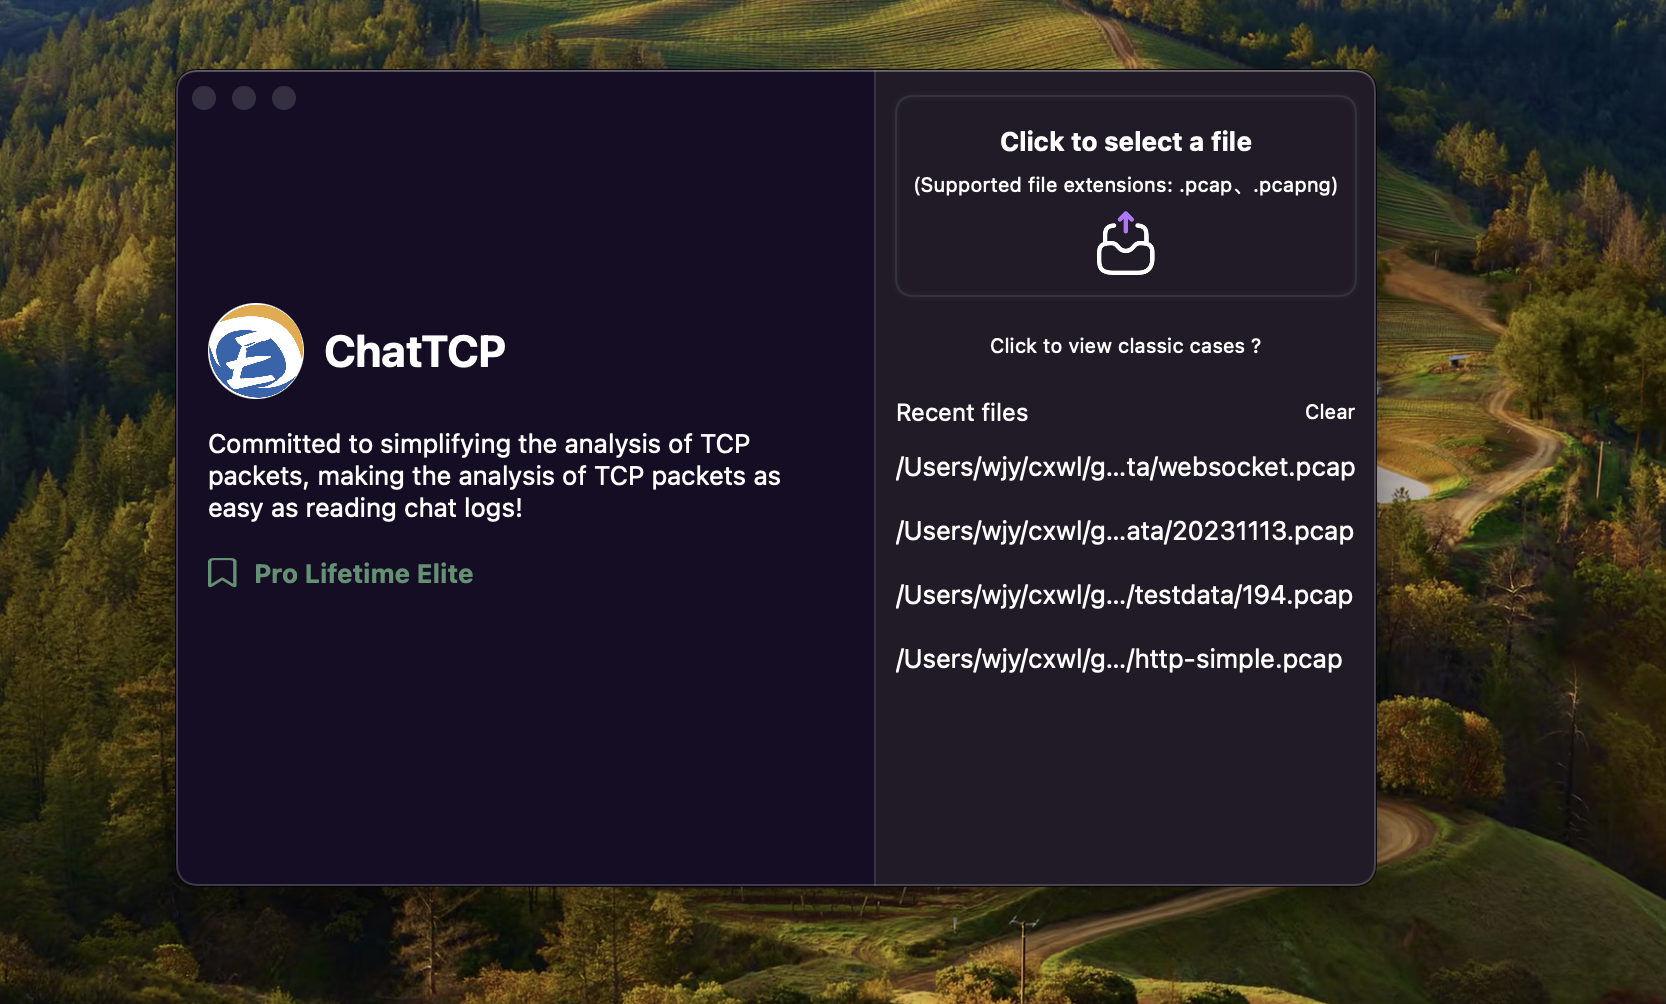
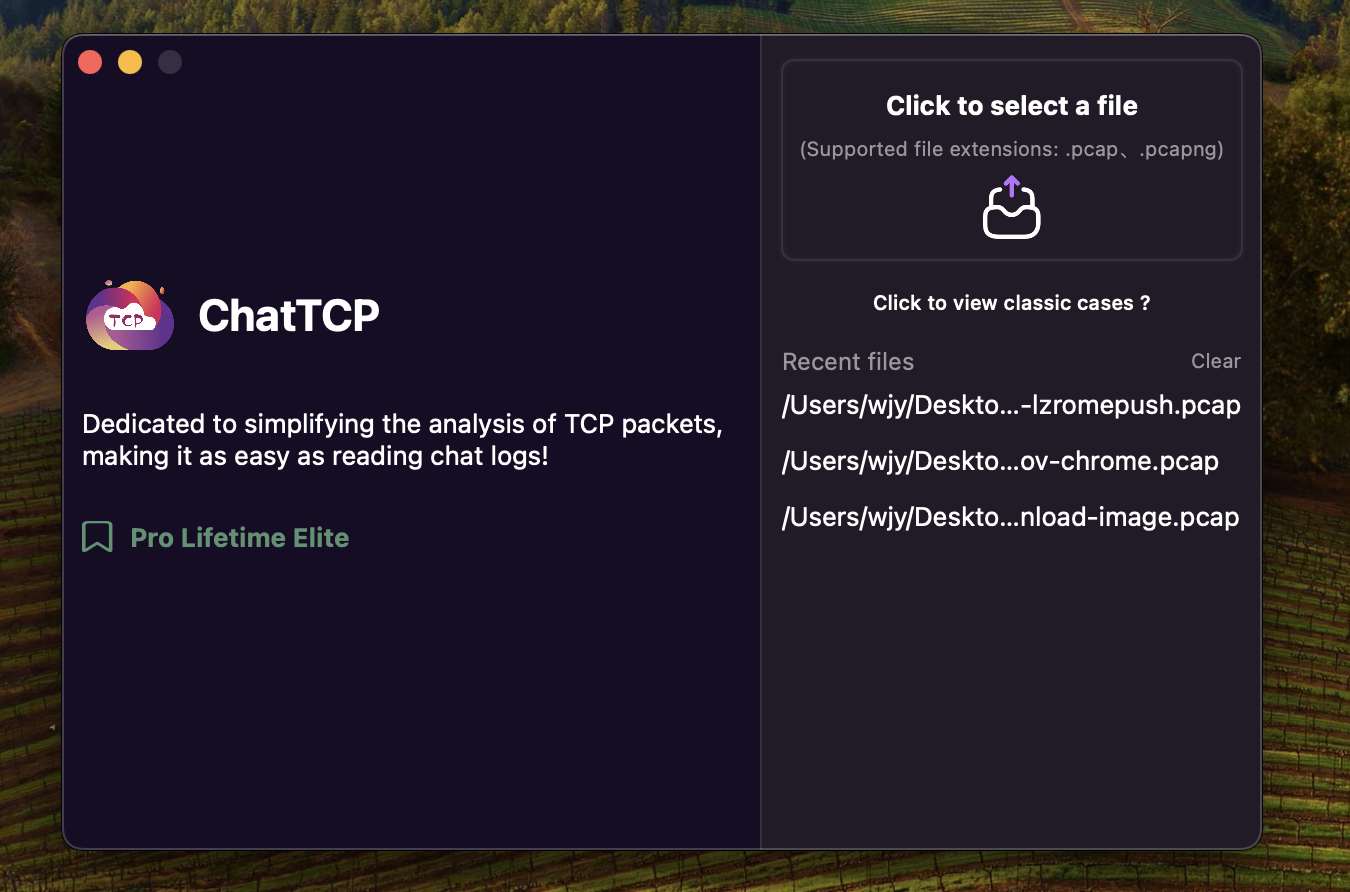
feat: 换新logo & 更新图片

diff --git a/.vitepress/src/sidebars/en.ts b/.vitepress/src/sidebars/en.ts
@@ -16,11 +16,15 @@ export const sidebar = [
         link: '/generate-tcpdump-command-using-chattcp'
     },
     {
+        text: "ChatTCP Personalization Configuration",
+        link: '/about-settings.md'
+    },
+    {
         text: 'Classic case of TCP packet capture analysis',
         link: '/classic-case'
     },
     {
-        text: 'Advanced Search Functionality of ChatTCP',
+        text: 'Advanced Search',
         link: '/search-package'
     },
     {

diff --git a/.vitepress/src/sidebars/zh.ts b/.vitepress/src/sidebars/zh.ts
@@ -16,6 +16,10 @@ export const zhSidebar = [
         link: '/zh/generate-tcpdump-command-using-chattcp'
     },
     {
+        text: "ChatTCP个性化配置",
+        link: '/zh/about-settings.md'
+    },
+    {
         text: 'TCP抓包分析经典案例',
         link: '/zh/classic-case'
     },

diff --git a/src/about-settings.md b/src/about-settings.md
@@ -1,0 +1,71 @@
+# ChatTCP Personalization Configuration
+
+ChatTCP extracts some personalized needs into independent configuration items, which you can modify according to your
+personal requirements.
+
+![ChatTCP setting](/images/about-settings/setting-page.png)
+
+## Use relative sequence number
+
+The sequence number defaults to showing the real value, but since the real value does not start from 0, it does not
+conform to human reading habits. Therefore, ChatTCP provides this configuration item, allowing you to configure the use
+of relative sequence numbers.
+
+Not using relative sequence numbers:
+![use real seq number](/images/about-settings/use-real-seq-number.png)
+
+Using relative sequence numbers:
+![use relative seq number](/images/about-settings/use-relative-seq-number.png)
+
+## Show connection status
+
+You can configure whether to display the [TCP Connection Status](/understand-the-connection-status-of-the-tcp-protocol).
+
+Displaying TCP connection status:
+![show tcp conn status](/images/about-settings/show-conn-status.png)
+
+Not displaying TCP connection status:
+![hidden tcp conn status](/images/about-settings/hidden-conn-status.png)
+
+## Chat note display enable
+
+Displaying Notes can help you understand data packets. This feature is particularly useful when you are not very
+familiar with the TCP protocol. However, once you become proficient with the TCP protocol, this feature may seem
+redundant.
+
+Show notes:
+![chat note show enable](/images/about-settings/chat-note-show-enable.png)
+
+Do not show notes:
+![chat note show disable](/images/about-settings/chat-note-show-disable.png)
+
+## Threshold for auto fold payload
+
+When the Payload is too long, it can cause UI rendering lag. Therefore, if the Payload is too long, it will be folded
+and only displayed when clicked. The default threshold is 1024 bytes, and when the Payload exceeds this threshold, it
+will be folded.
+
+When folded:
+![auto fold too long payload](/images/about-settings/auto-fold-too-long-payload.png)
+
+You can modify this threshold.
+
+## Chat payload display style
+
+ChatTCP automatically recognizes the correct application layer protocol to decode the TCP packet's Payload. If decoding
+is successful, it will determine how to display the decoded data based on this configuration item.
+
+### Structure Priority (Default)
+
+If supported, the decoded data will be mapped to the corresponding application layer protocol's data structure view for
+display.
+
+For example:
+![chat payload display style simple](/images/about-settings/chat-payload-display-style-structure.png)
+
+### Simple Priority
+
+If supported, only the application layer protocol's Payload will be displayed.
+
+For example, the WebSocket protocol only displays the frame's Payload:
+![chat payload display style simple](/images/about-settings/chat-payload-display-style-simple.png)

diff --git a/src/zh/about-settings.md b/src/zh/about-settings.md
@@ -1,0 +1,64 @@
+# ChatTCP个性化配置
+
+ChatTCP将一些个性化需求提取为独立的配置项，您可根据个人需求来修改这些配置项。
+
+![ChatTCP setting](/images/about-settings/setting-page.png)
+
+## 使用相对序列号
+
+序列号默认显示真实值，但由于真实值不是从0开始的，不符合人类的阅读习惯，因此ChatTCP提供该配置项，您可配置使用相对序列号。
+
+不使用相对序列号：
+![use real seq number](/images/about-settings/use-real-seq-number.png)
+
+使用相对序列号：
+![use relative seq number](/images/about-settings/use-relative-seq-number.png)
+
+## 显示TCP连接状态
+
+您可配置是否显示[TCP连接状态](/zh/understand-the-connection-status-of-the-tcp-protocol)。
+
+显示TCP连接状态：
+![show tcp conn status](/images/about-settings/show-conn-status.png)
+
+不显示TCP连接状态：
+![hidden tcp conn status](/images/about-settings/hidden-conn-status.png)
+
+## 是否显示备注
+
+显示备注可以帮助您理解数据包。 当您不太了解 TCP 协议时，这项功能尤其有用。 不过，一旦您熟练掌握了 TCP 协议，这项功能可能就显得多余了。
+
+显示备注：
+![chat note show enable](/images/about-settings/chat-note-show-enable.png)
+
+不显示备注：
+![chat note show disable](/images/about-settings/chat-note-show-disable.png)
+
+## 自动折叠Payload的长度阈值
+
+当Payload过长时会导致UI渲染卡顿，因此Payload过长会被折叠，点击后才展开显示Payload。默认阈值为1024字节，当Payload超过阈值，Payload就会被折叠。
+
+被折叠时：
+![auto fold too long payload](/images/about-settings/auto-fold-too-long-payload.png)
+
+您可修改该阈值。
+
+## Payload的显示样式
+
+ChatTCP会自动识别使用正确的应用层协议来解码TCP数据包的Payload，如果解码成功，就会根据此配置项来决定如何显示解码后的数据。
+
+### Structure priority （默认）
+
+如果支持的话，将解码后的数据映射到对应的应用层协议的数据结构视图显示。
+
+例如：
+![chat payload display style simple](/images/about-settings/chat-payload-display-style-structure.png)
+
+### Simple priority
+
+如果支持的话，只显示应用层协议的Payload。
+
+例如，WebSocket协议只显示frame的Payload：
+![chat payload display style simple](/images/about-settings/chat-payload-display-style-simple.png)
+
+

diff --git a/src/tcp-analysis-using-chattcp.md b/src/tcp-analysis-using-chattcp.md
@@ -35,7 +35,7 @@ When we select a connection in the left workspace, this area will update to disp
 
 ![Chat window](/images/tcp-analysis-using-chattcp/analysis-main-workspace.png)
 
-A Chat includes: sender IP:PORT, the state of the connection after the packet is sent, packet sending time, seq, ack, flags, Payload (if any), and description.
+A Chat includes: sender IP:PORT, the state of the connection after the packet is sent, packet sending time, seq, ack, flags, Payload (if any), and note.
 
 ![One chat](/images/tcp-analysis-using-chattcp/chat-struct.png)
 
@@ -43,11 +43,11 @@ If you forget what the flags mean, you can hover over the flags to see a tooltip
 
 ![Flag tips](/images/tcp-analysis-using-chattcp/chat-tcp-flag-tips.png)
 
-If you don't understand how to interpret this TCP packet, you can enable "Turn on commentary," and ChatTCP will show you how to understand the packet.
+If you don't understand how to interpret this TCP packet, you can enable "Commentary," and ChatTCP will show you how to understand the packet.
 
 ![Commentary](/images/tcp-analysis-using-chattcp/chat-commentary.png)
 
-If you want to understand the entire TCP packet, you can click the "Show" button, which will pop up a view at the bottom to display the details of the packet.
+If you want to understand the entire TCP packet, you can click the "i" button, which will pop up a view at the bottom to display the details of the packet.
 
 ![TCP Structure](/images/tcp-analysis-using-chattcp/tcp-structure.png)
 
@@ -57,7 +57,7 @@ By default, the packet will be mapped to the TCP data structure for display, and
 
 When we click outside the pop-up view, the pop-up will disappear.
 
-ChatTCP will automatically recognize the application layer protocol used by the packet's Payload and decode it. If the decoding is successful, the Chat will display the data structure of the application layer protocol and support switching to Raw.
+ChatTCP will automatically recognize the application layer protocol used by the packet's Payload and decode it. If the decoding is successful, the Chat will display the data structure of the application layer protocol.
 
 ![Chat payload decode as websocket](/images/tcp-analysis-using-chattcp/chat-payload-websocket.png)
 

diff --git a/src/zh/tcp-analysis-using-chattcp.md b/src/zh/tcp-analysis-using-chattcp.md
@@ -38,7 +38,7 @@
 
 ![Chat window](/images/tcp-analysis-using-chattcp/analysis-main-workspace.png)
 
-一个Chat包括：发送者IP:PORT、该数据包发送之后连接所处状态、数据包发送时间、seq、ack、标志位、Payload（如有）、说明。
+一个Chat包括：发送者IP:PORT、该数据包发送之后连接所处状态、数据包发送时间、seq、ack、标志位、Payload（如有）、备注。
 
 ![One chat](/images/tcp-analysis-using-chattcp/chat-struct.png)
 
@@ -46,11 +46,11 @@
 
 ![Flag tips](/images/tcp-analysis-using-chattcp/chat-tcp-flag-tips.png)
 
-如果你不懂怎么理解这个TCP数据包，可开启“Turn on commentary”，ChatTCP就会显示教你如何理解该数据包。
+如果你不懂怎么理解这个TCP数据包，可开启“Commentary”，ChatTCP就会显示教你如何理解该数据包。
 
 ![Commentary](/images/tcp-analysis-using-chattcp/chat-commentary.png)
 
-如果你想了解整个TCP数据包，我们可以点击“Show”按钮，此时就是在底部弹出一个视图来显示这个数据包的明细。
+如果你想了解整个TCP数据包，我们可以点击“i”按钮，此时就是在底部弹出一个视图来显示这个数据包的明细。
 
 ![TCP Structure](/images/tcp-analysis-using-chattcp/tcp-structure.png)
 
@@ -60,7 +60,7 @@
 
 当我们点击弹出视图之外的地方，弹出视图就会消失。
 
-ChatTCP会自动识别数据包Payload使用的应用层协议并解码，如果解码成功，那么Chat会以应用层协议数据结构显示，并支持切换到Raw。
+ChatTCP会自动识别数据包Payload使用的应用层协议并解码，如果解码成功，那么Chat会以应用层协议数据结构显示。
 
 ![Chat payload decode as websocket](/images/tcp-analysis-using-chattcp/chat-payload-websocket.png)
 

diff --git a/src/decode-application-layer-protocols.md b/src/decode-application-layer-protocols.md
@@ -4,7 +4,7 @@ The application layer is the seventh layer of the OSI model, with commonly used 
 
 ChatTCP automatically recognizes the application layer protocol used by the connection and decodes the Payload of each packet using the corresponding application layer protocol, mapping it to the protocol's data structure for intuitive and efficient analysis.
 
-![Decode as websocket](/images/decode-application-layer-protocols/chat-payload-webscoket.png)
+![Decode as websocket](/images/decode-application-layer-protocols/chat-payload-websocket.png)
 
 Certainly, it is also supported to decode the Payload of all incoming and outgoing packets within the entire connection using the corresponding application layer protocol. ChatTCP will handle issues related to packet sticking and fragmentation. This corresponds to the Flow stream functionality in Wireshark.
 

diff --git a/src/zh/decode-application-layer-protocols.md b/src/zh/decode-application-layer-protocols.md
@@ -4,7 +4,7 @@
 
 ChatTCP默认会自动识别连接使用的应用层协议，并将每个数据包使用相应的应用层协议来解码Payload，并映射到协议的数据结构显示，分析起来非常直观和高效。
 
-![Decode as websocket](/images/decode-application-layer-protocols/chat-payload-webscoket.png)
+![Decode as websocket](/images/decode-application-layer-protocols/chat-payload-websocket.png)
 
 当然，也支持将整个连接的所有往返数据包的Payload使用相应的应用层协议解码，ChatTCP会解决粘包和拆包问题。这对应于Wireshark的Flow stream功能。
 

diff --git a/src/search-package.md b/src/search-package.md
@@ -1,4 +1,4 @@
-# Advanced Search Functionality of ChatTCP
+# Advanced Search
 
 To simplify the analysis process, ChatTCP parses all connections in pcap (or pcapng) files, reassembling round-trip packets by connection to display them as chat records. Therefore, ChatTCP defaults to supporting filtering by connection and fuzzy search.
 
